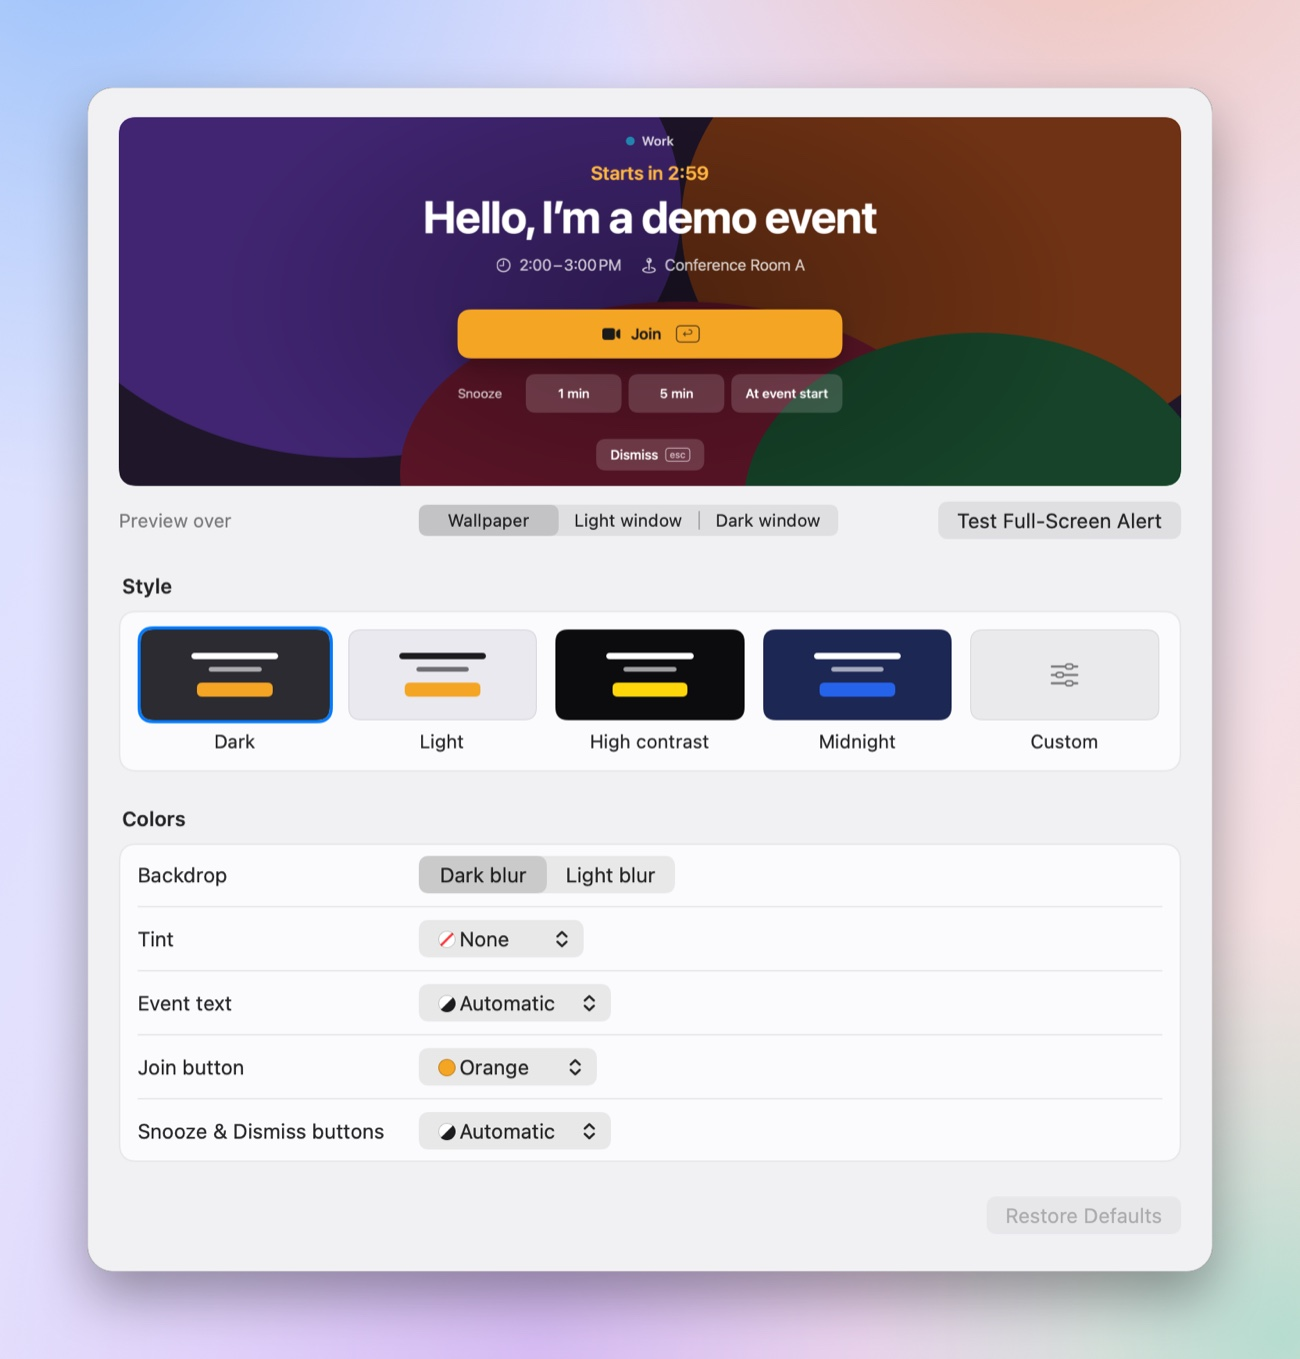
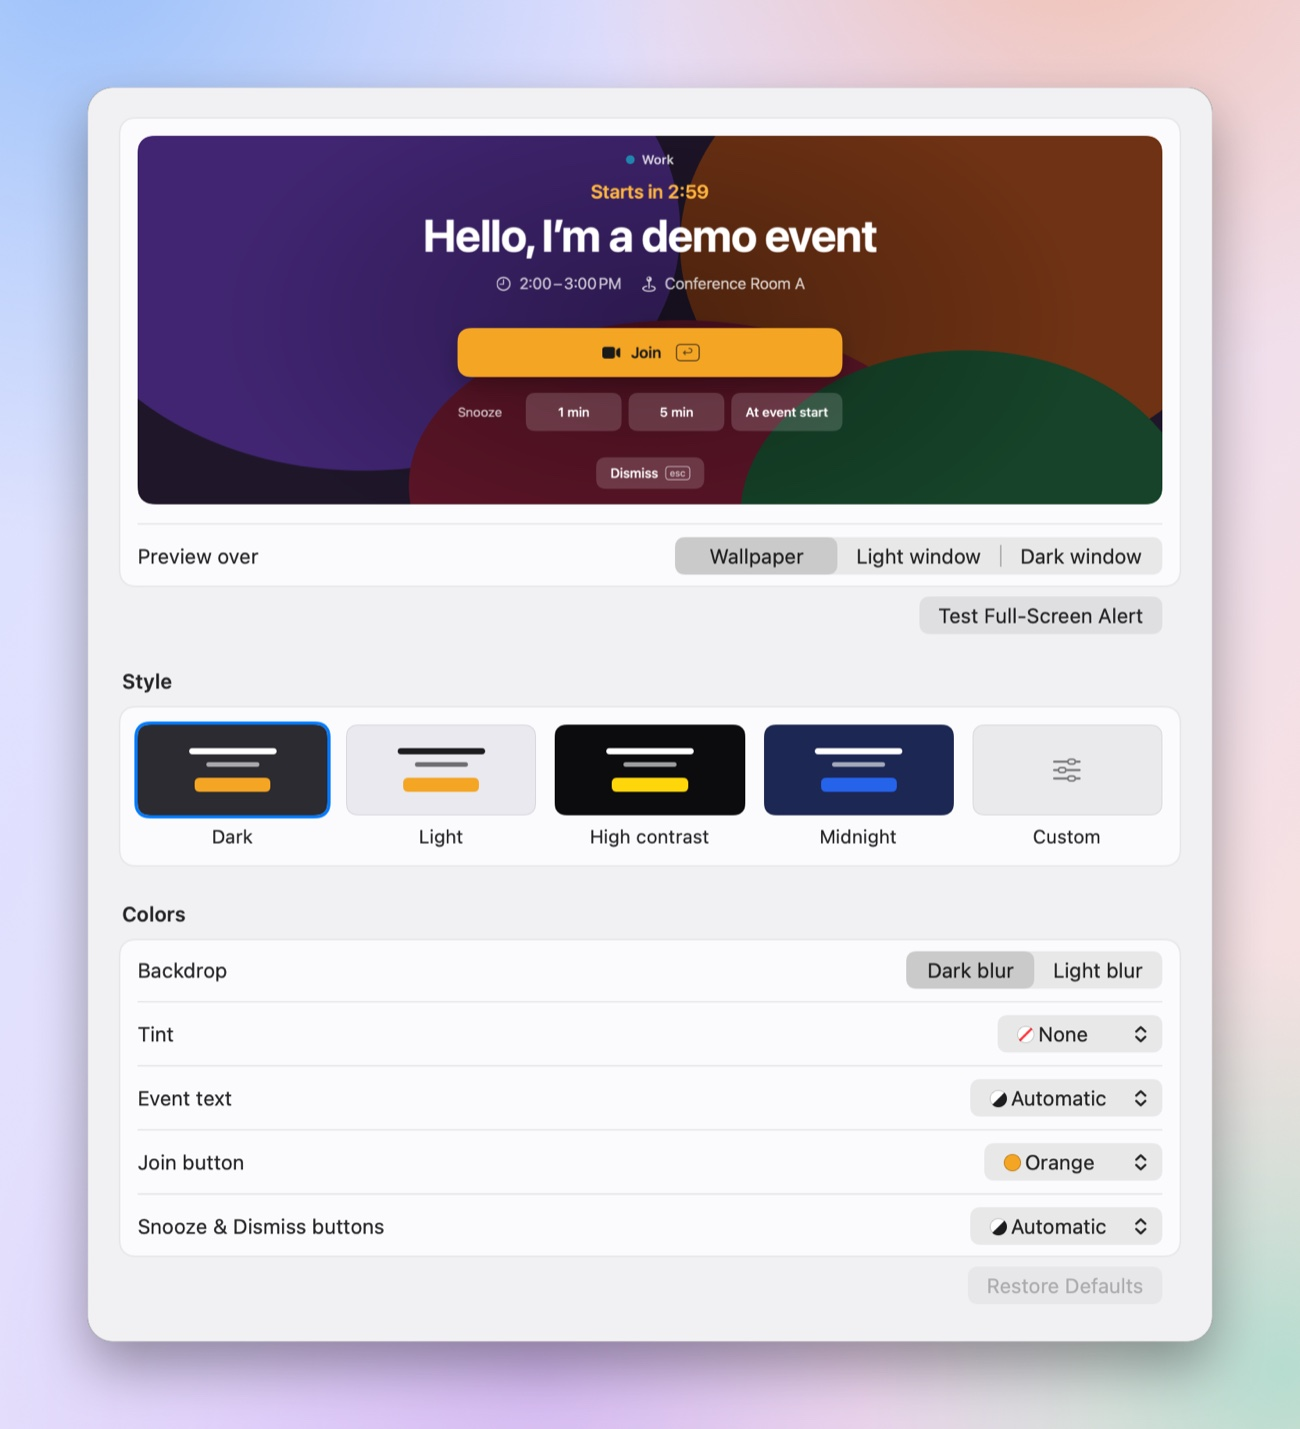
README: Settings screenshots after the cohesion pass

diff --git a/README.md b/README.md
@@ -39,7 +39,7 @@ Works with any calendar your Mac knows about (Google, iCloud, Exchange, Outlook,
 </p>
 <p align="center">
   <img src="docs/screenshots/settings-alerts.jpg" alt="The Alerts settings pane: the Full-screen alert box with Alert me, Show on, Sound and Close automatically, with Test Full-Screen Alert under it at the right; the Notification box with Notify me and Play sound, with Test Notification under it at the right, beside the note on System Settings; and the Snooze box with the first and second snooze times both kinds share" width="49%">
-  <img src="docs/screenshots/settings.jpg" alt="The Appearance settings pane: a live preview of the full-screen alert with Preview over and Test Full-Screen Alert under it, five style cards (the four presets and Custom), and the Colors box, its backdrop, tint, event text and button controls lined up on one left edge" width="49%">
+  <img src="docs/screenshots/settings.jpg" alt="The Appearance settings pane: a live preview of the full-screen alert with Preview over at its right and Test Full-Screen Alert under it, five style cards (the four presets and Custom), and the Colors box with its backdrop, tint, event text and button controls at the right, Restore Defaults under it" width="49%">
 </p>
 <p align="center"><sub>Screenshots show sample meetings, not a real calendar.</sub></p>
 
